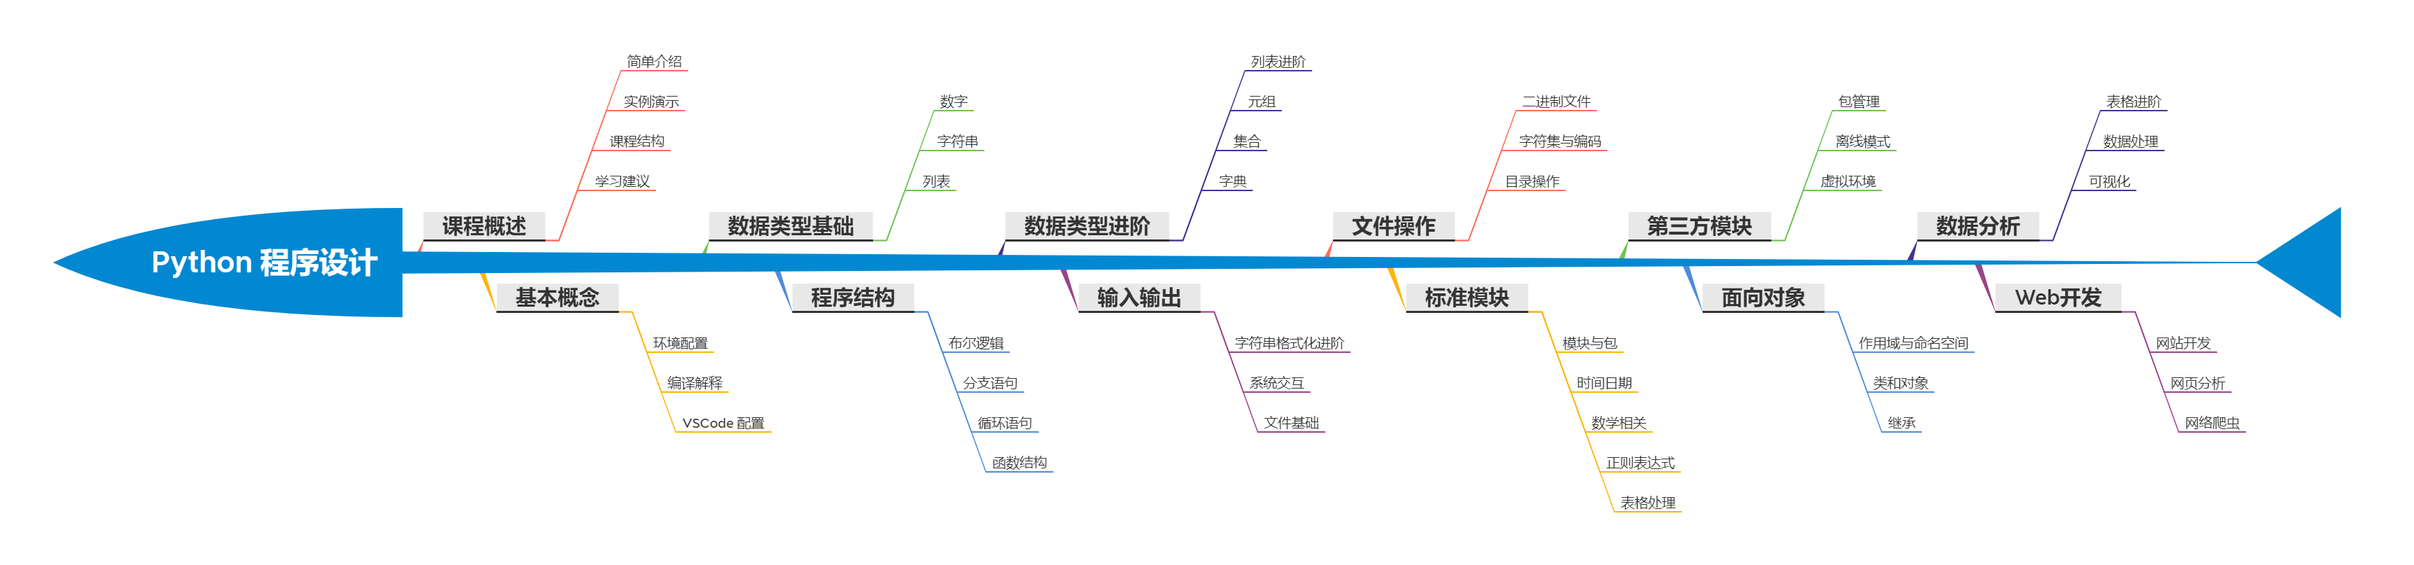
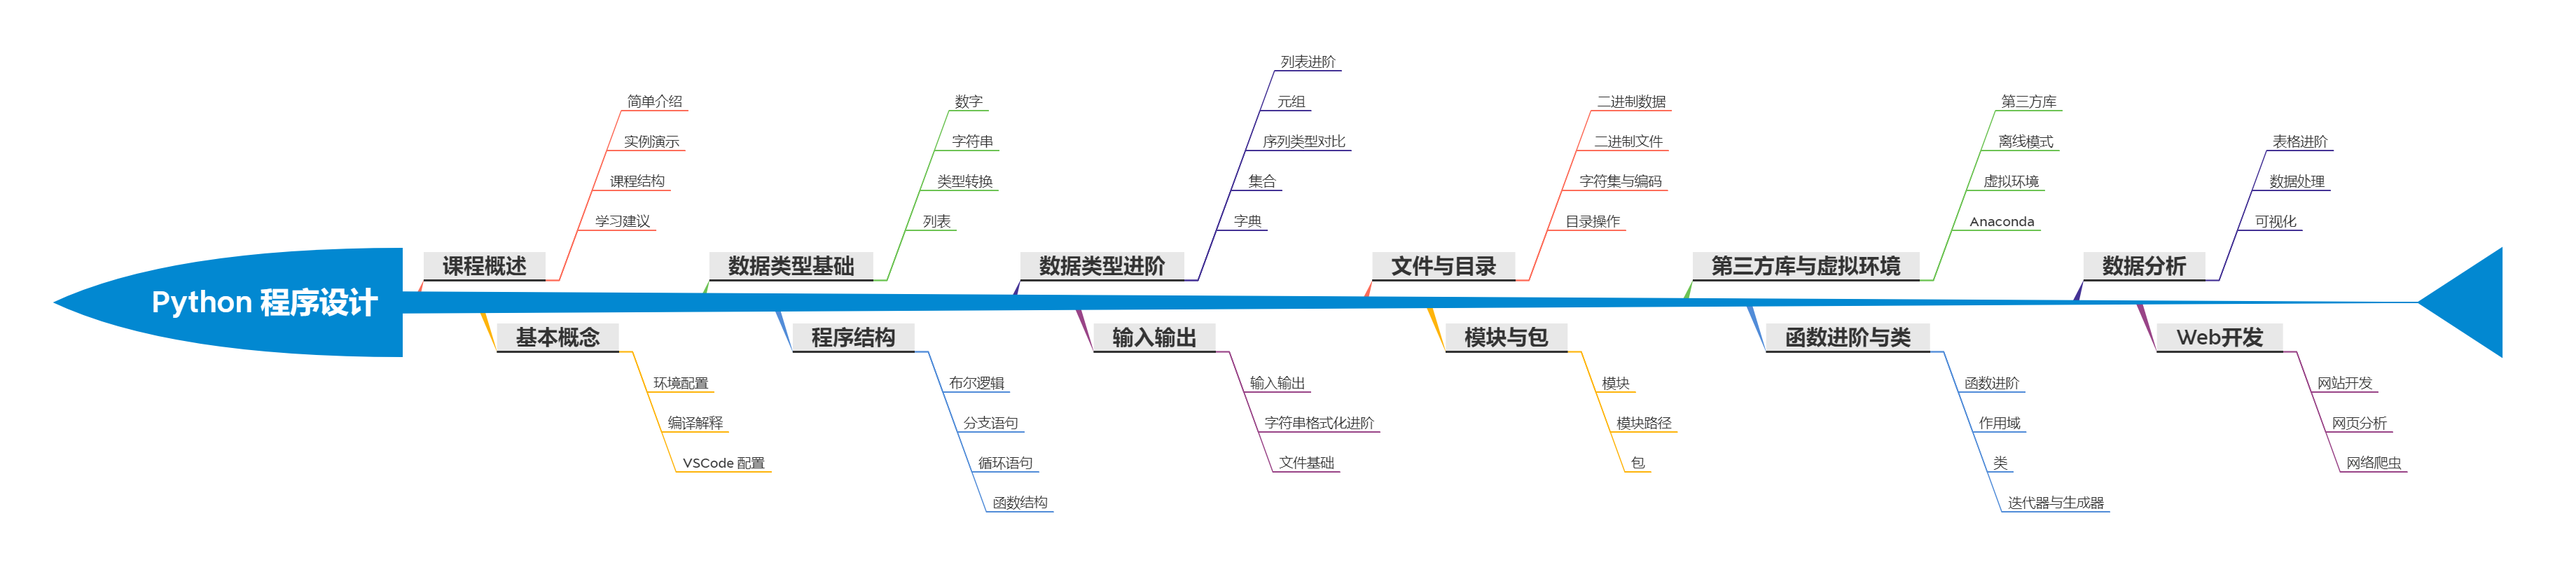
新增函数进阶与类一节。

diff --git a/docs/python/class/slideshow.html b/docs/python/class/slideshow.html
@@ -1,0 +1,1 @@
+../../../material/slideshow.html

diff --git a/docs/python/class.md b/docs/python/class.md
@@ -1,0 +1,7 @@
+---
+title: 函数进阶与类
+---
+
+**下方课件区域方向键控制翻页，`f` 键全屏。**
+
+<iframe src="./slideshow.html" frameborder=0 width=800 height=450></iframe>

diff --git a/docs/python.md b/docs/python.md
@@ -27,3 +27,5 @@ title: Python 程序设计
 [07-模块与包](python/lib-and-packages.md)
 
 [08-第三方库与虚拟环境](python/virtualenvs.md)
+
+[09-函数进阶与类](python/class.md)
